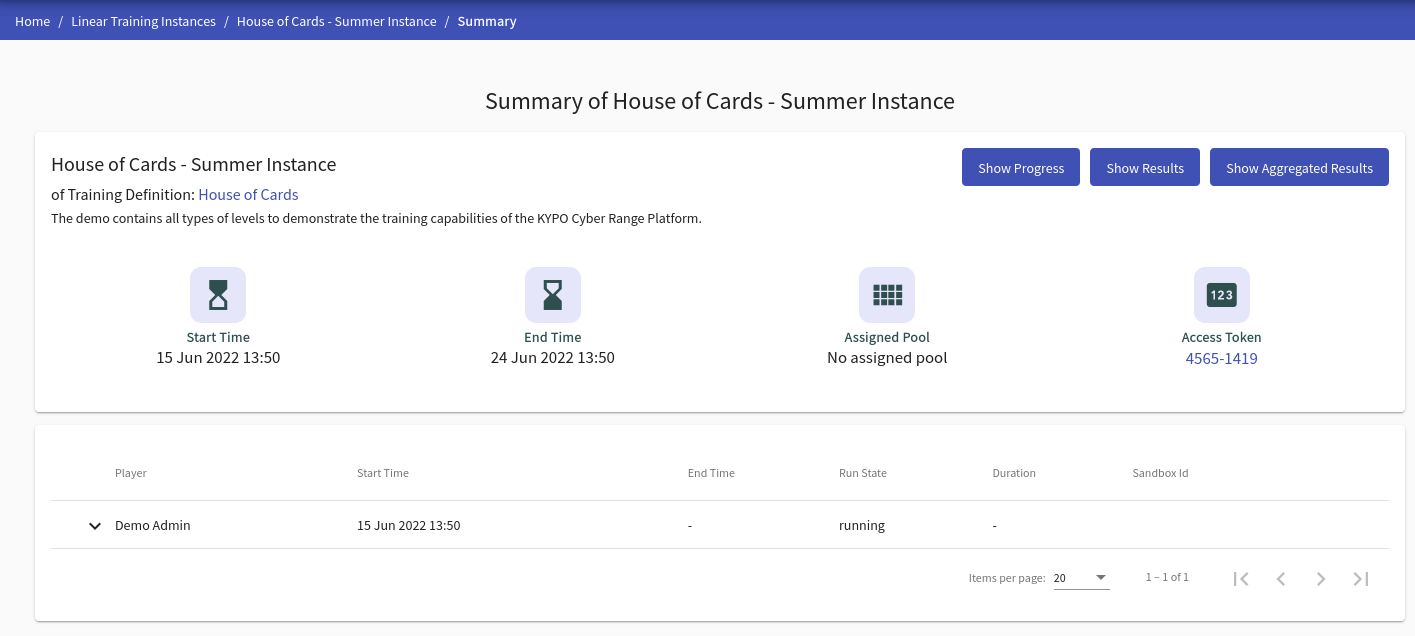
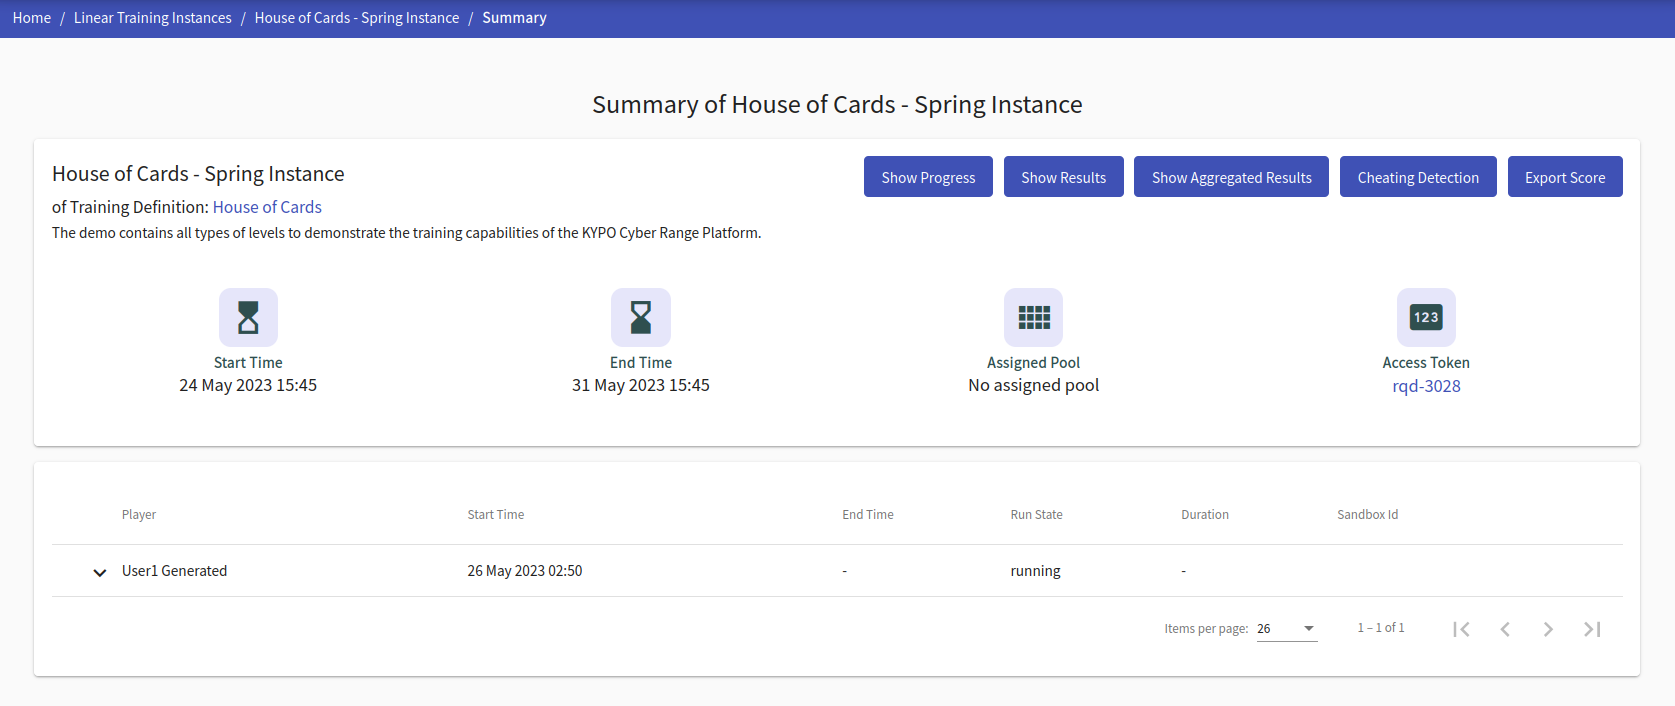
Resolve "Document export score and cheating detection buttons in training instance"

diff --git a/docs/user-guide-basic/training-agenda/training-instance.md b/docs/user-guide-basic/training-agenda/training-instance.md
@@ -121,7 +121,7 @@ Provides a summary of the entire run of the training instance and allows the ins
   <img src="../../../../img/user-guide-basic/training-agenda/training-instance/TI-summary.png">
 </p>
 
-The first panel displays basic information about training instance, as shown in the above figure. Allows copying access token and provides a link to the detail of the assigned pool and training definition. Click on the ![show-progress](../../img/buttons/show-progess-button.png) button **(only linear training instance)** to redirect to the [Progress of Training Instance](#progress-of-training-instance) page to see the training progress of participants in time. Click on another button ![show-results](../../img/buttons/show-results-button.png) to redirect to the [Results of Training Instance](#results-of-training-instance) page to see summary results of training instance visualized on various graphs and in tables. Click the last button ![show-aggregated-results](../../img/buttons/show-aggregated-results-button.png) **(only linear training instance)** to redirect to the [Aggregated results of Training Instance](../visualizations/visualizations-for-linear/#aggregated-dashboard) page to see summary of results of all training instances sharing **the same** training definition visualized on various graphs.  
+The first panel displays basic information about training instance, as shown in the above figure. Allows copying access token and provides a link to the detail of the assigned pool and training definition. Click on the ![show-progress](../../img/buttons/show-progess-button.png) button **(only linear training instance)** to redirect to the [Progress of Training Instance](#progress-of-training-instance) page to see the training progress of participants in time. Click on another button ![show-results](../../img/buttons/show-results-button.png) to redirect to the [Results of Training Instance](#results-of-training-instance) page to see summary results of training instance visualized on various graphs and in tables. Click the button ![show-aggregated-results](../../img/buttons/show-aggregated-results-button.png) **(only linear training instance)** to redirect to the [Aggregated results of Training Instance](../visualizations/visualizations-for-linear/#aggregated-dashboard) page to see summary of results of all training instances sharing **the same** training definition visualized on various graphs. The next button ![cheating-detection](../../img/buttons/cheating-detection-button.png) redirects to the page [Cheating Detection Overview](../training-agenda/cheating-detection.md) where you can execute cheating detection methods on the training instance. The last button ![export-score](../../img/buttons/export-score-button.png) downloads an archive with the score of all trainees that played through the training.  
 
 The second panel displays basic information about active training runs. These runs are either in the running or finished state. Clicking the expand button :material-chevron-down:{: .grey .icon } (next to the trainee's name) expands the row with additional information about the training run that displays correct answers for every training level and variable name if the training instance was created from [APG training definition](../../../user-guide-advanced/trainings/trainings-overview/#automatic-generation-problem-apg-in-linear-training-definition).
 
